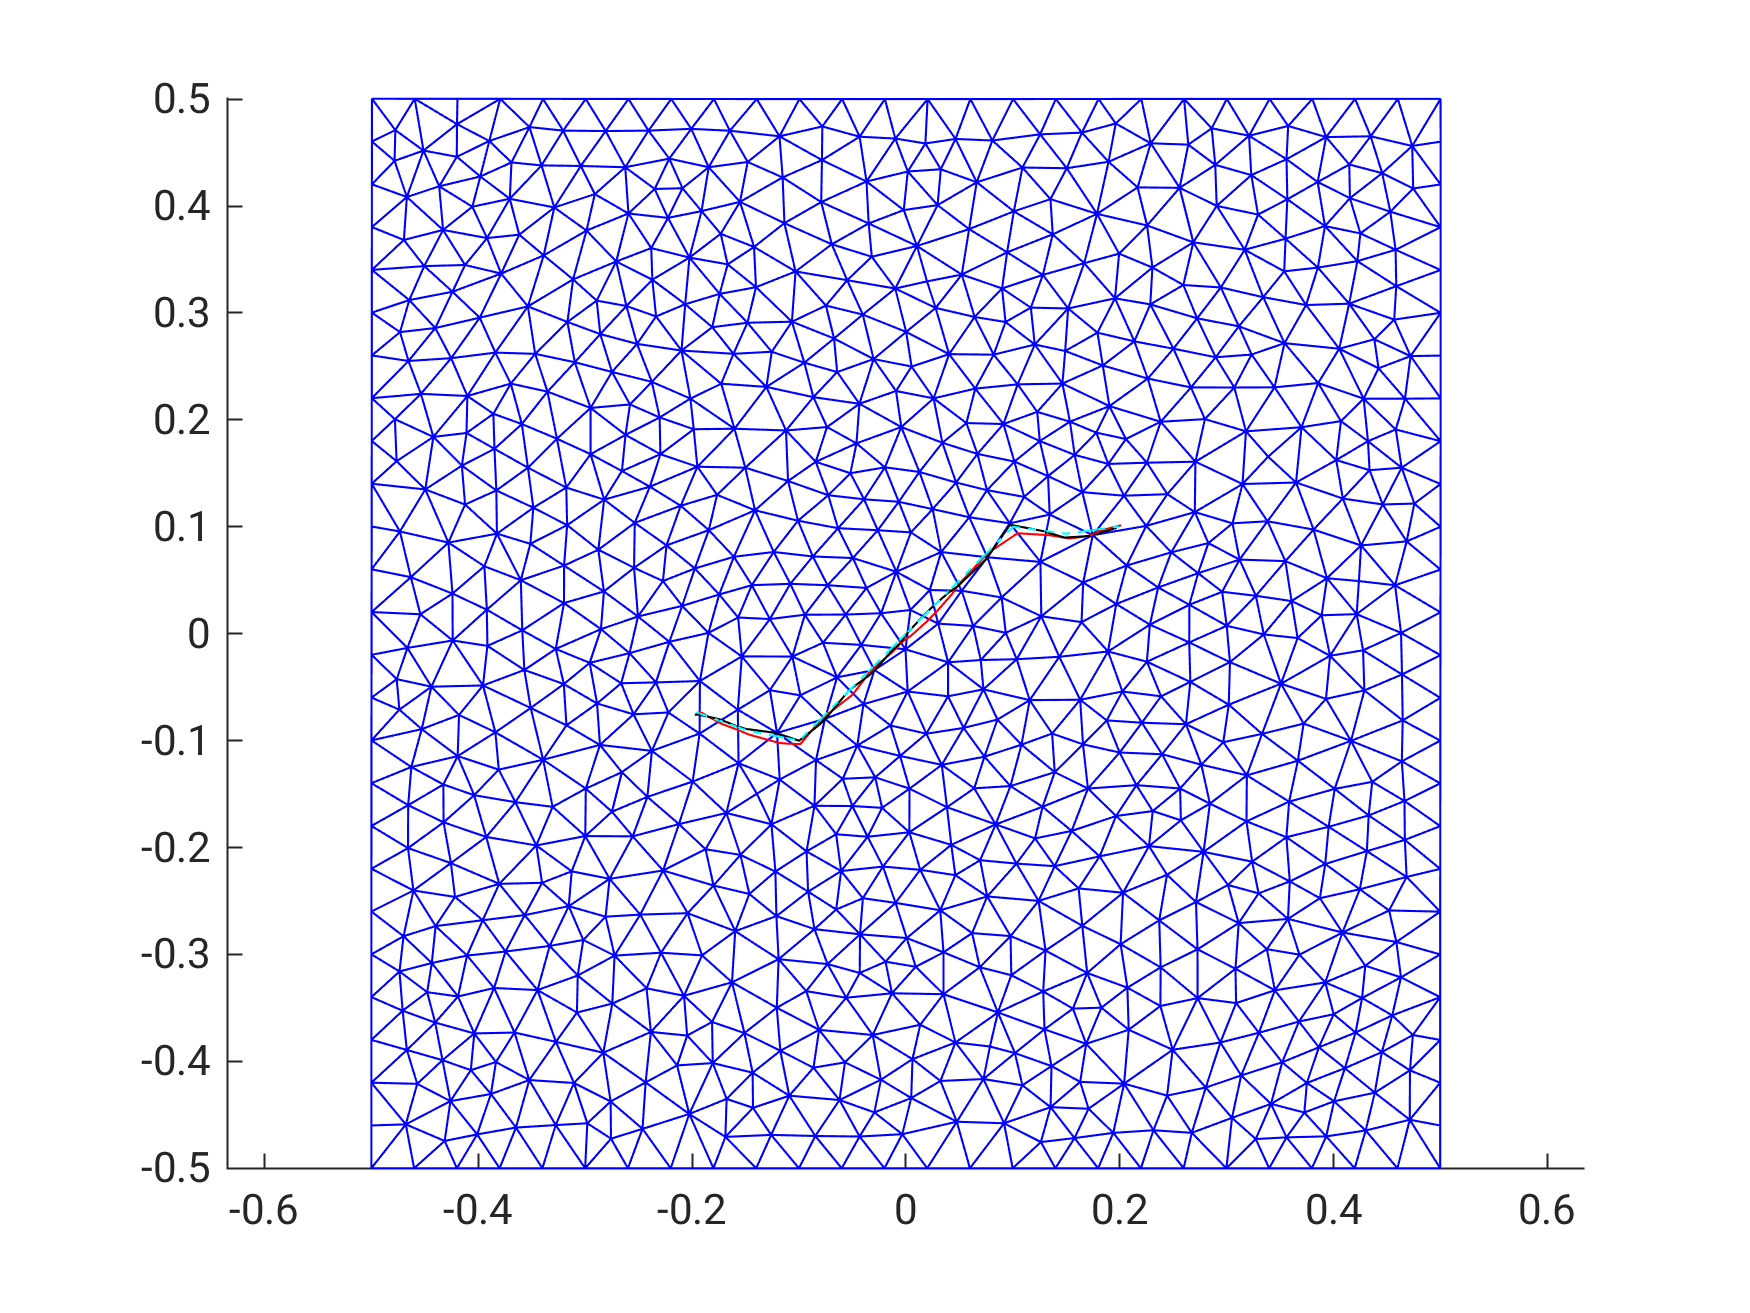
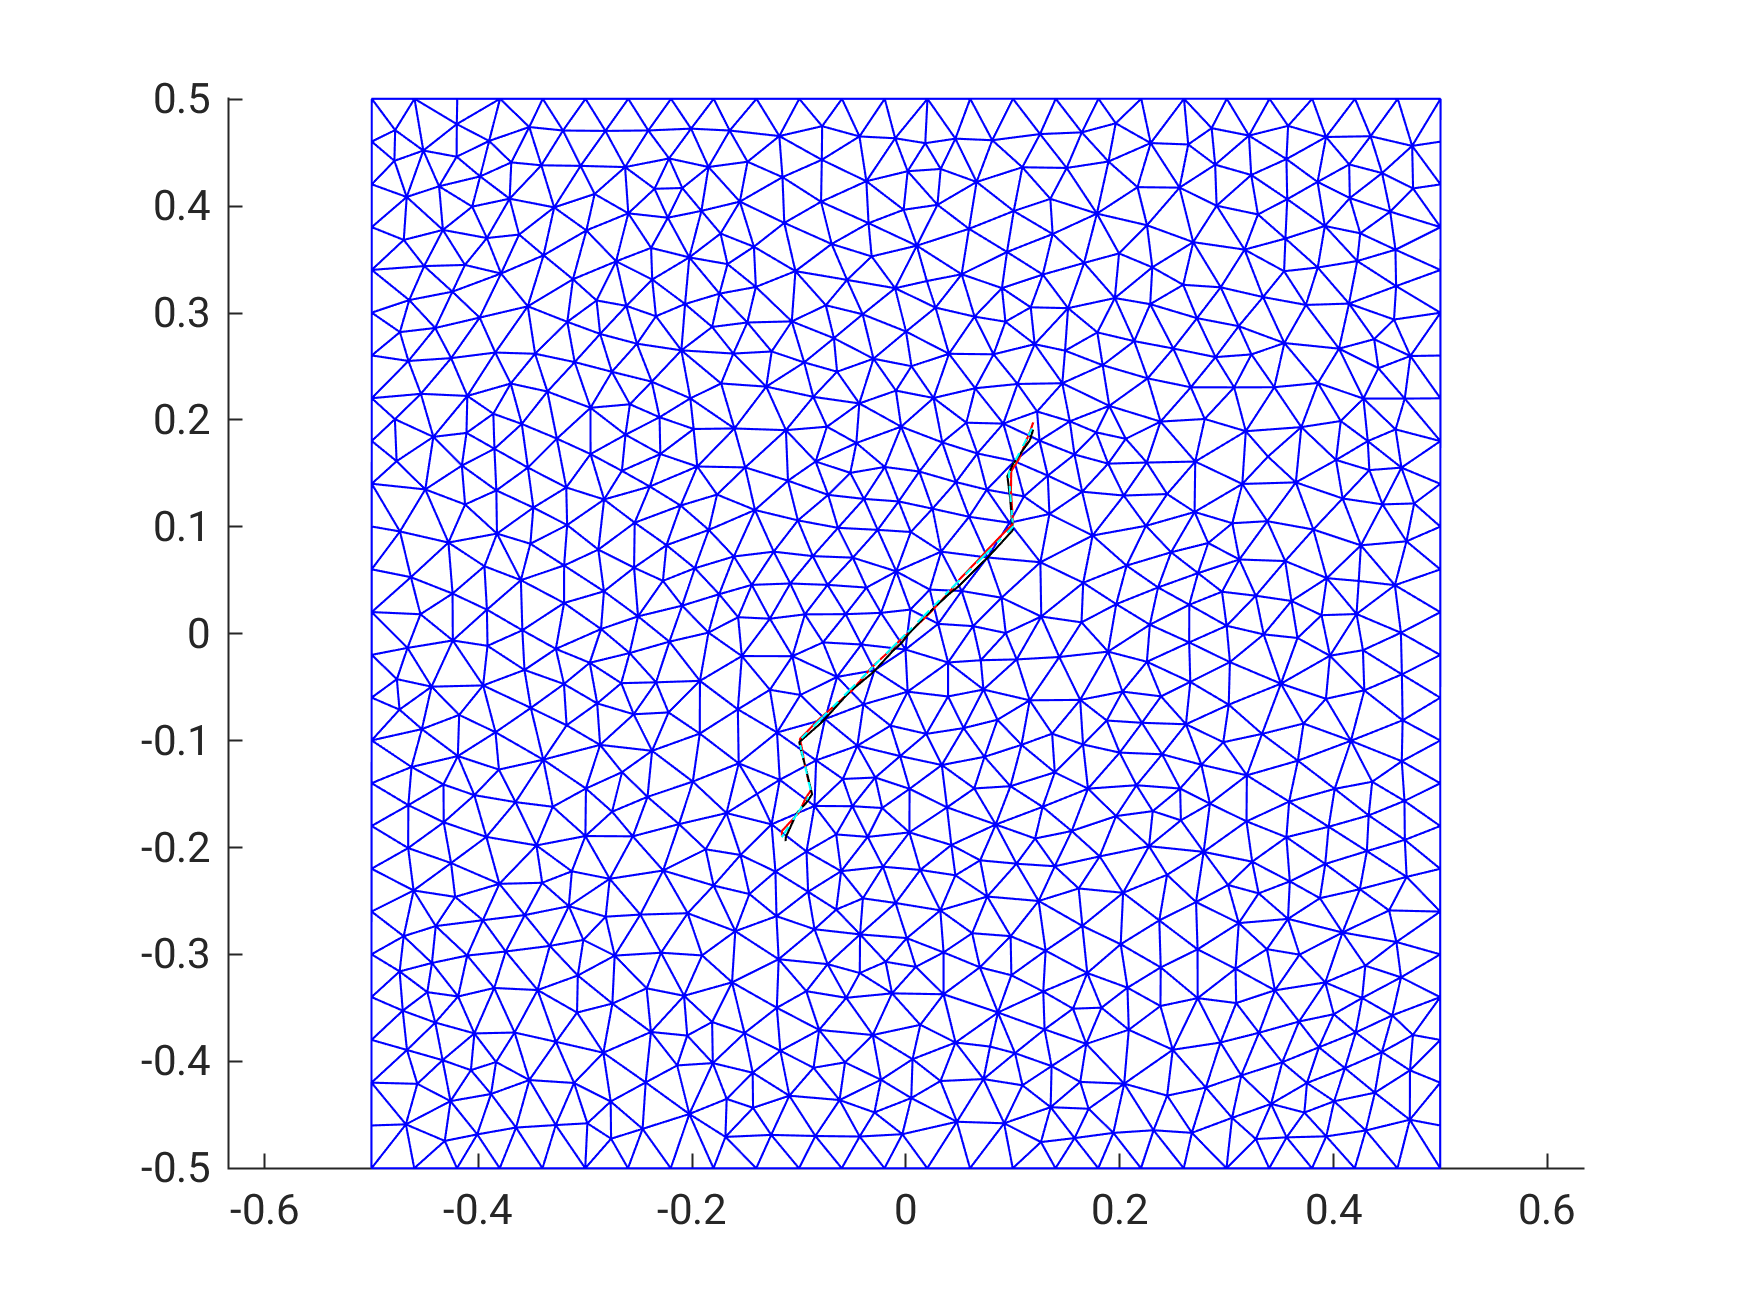
wall pressure plotting

diff --git a/Routines_ICEM/f_plot_wall_forces.m b/Routines_ICEM/f_plot_wall_forces.m
@@ -1,4 +1,4 @@
-function [ ] = f_plot_wall_forces( u,xCr,enrDomain,typeElem,elem_crk,split_elem,vertex_elem,tip_elem)
+function [ ] = f_plot_wall_forces( u,xCrk,enrDomain,typeElem,elem_force,elem_crk,split_elem,vertex_elem,tip_elem)
 % This MATLAB function was created by Martin Forbes (martin.forbes@postgrad.otago.ac.nz)
 % The date of creation: Fri Mar 18 18:39:27 NZDT 2022
 
@@ -13,17 +13,12 @@ global rift_wall_pressure
 
 %loop over elements
 %elems = union(split_elem,vertex_elem);
-if 
-  f = figure('visible','off');
-else
-  f = figure();
-end
 
 
 
 
 for kk = 1:size(xCrk,2) %what's the crack?
-  if 
+  if Hidden
     f = figure('visible','off');
   else
     f = figure();
@@ -31,22 +26,23 @@ for kk = 1:size(xCrk,2) %what's the crack?
   ns = size(xCrk(kk).coor,2);
   crack_coord = {};
   f_app = {};
-  for ii = 1:length(tip_elems)
+  for ii = 1:length(tip_elem)
     iel = tip_elem(ii);
     sctr = element(iel,:);
     segment = elem_crk(iel,:);
     for i=[1,ns-1]
       xseg = [xCrk(kk).coor(i,:),xCrk(kk).coor(i+1,:)];
       [lseg,~,~,~,~,~] = f_segment_dist(xseg);
-      [flag1,flag2,~] = crack_interact_element(xseg,e,[])
+      [flag1,flag2,~] = crack_interact_element(xseg,iel,[]);
       if flag1
-        [l,~,~,~,~,~] = f_segment_dist(seg);
+        [l,~,~,~,~,~] = f_segment_dist(segment);
+        dw = l/(2*sqrt(3));
         if i == 1
-          crack_coord{i} = [l/(2*sqrt(3), l - l/(2*sqrt(3)];
+          crack_coord{i} = [dw, l - dw];
         else
-          crack_coord{i} = [lseg - (l -l/(2*sqrt(3)), lseg - l/(2*sqrt(3)];
+          crack_coord{i} = [lseg - (l - dw), lseg - dw];
         end
-        f_app{i} = elem_forces(iel,1:2);
+        f_app{i} = elem_force(iel,1:2);
       end
     end
   for ii =1:length(vertex_elem)
@@ -56,7 +52,7 @@ for kk = 1:size(xCrk,2) %what's the crack?
     for i=1:ns-1
       xseg = [xCrk(kk).coor(i,:),xCrk(kk).coor(i+1,:)];
       [lseg,~,~,~,~,~] = f_segment_dist(xseg);
-      [flag1,flag2,~] = crack_interact_element(xseg,e,[])
+      [flag1,flag2,~] = crack_interact_element(xseg,iel,[]);
       if flag1
         l1 = [segment(1:2),xseg(3:4)];
         d1 = f_segment_dist(l1);
@@ -66,39 +62,73 @@ for kk = 1:size(xCrk,2) %what's the crack?
         dw = dt/(2*sqrt(3));
         if d1 > dw 
           crack_coord{i} = [ crack_coord{i}, lseg - (d1 - dw) ]
-          f_app{i} = [ f_app{i}, elem_forces(iel,1) ]
+          f_app{i} = [ f_app{i}, elem_force(iel,1) ]
           if d2 < dw
             crack_coord{i} = [ crack_coord{i}, lseg - d1 - (dt - dw) ]
-            f_app{i} = [ f_app{i}, elem_forces(iel,2) ]
+            f_app{i} = [ f_app{i}, elem_force(iel,2) ]
           else
             crack_coord{i+1} = [ dt - dw -d1, crack_coord{i+1} ]
-            f_app{i} = [ elem_forces(iel,2), f_app{i+1}]
+            f_app{i} = [ elem_force(iel,2), f_app{i+1}]
+          end
         else 
           crack_coord{i+1} = [ dw-d1, dt-dw-d1 , crack_coord{i+1} ] 
-          f_app{i+1} = [ elem_forces(iel,2), f_pp{i+1} ] 
+          f_app{i+1} = [ elem_force(iel,2), f_pp{i+1} ] 
         end
       end
     end
   end
-  for ii=1:length(split_elems)
-    iel = elems(ii);
+  for ii=1:length(split_elem)
+    iel = split_elem(ii);
     sctr = element(iel,:) ;
     segment = elem_crk(iel,:);
-    x0 = elem_crk(iel,1) ; y0 = elem_crk(iel,2) ;
-    x1 = elem_crk(iel,3) ; y1 = elem_crk(iel,4) ;
-    l = sqrt((x1-x0)*(x1-x0) + (y1-y0)*(y1-y0)) ;
-    nv = [(y0-y1),(x1-x0)]./l;
+    [l,~,~,~,~,~] = f_segment_dist(segment);
+    dw = l/(2*sqrt(3));
     % if there is ocean force
-    f_app = elem_force(iel,1:2) ;
-
-    % need to sort the segments into one coordinate (along crack)
-    seg_value = 0
-    coord = 0
-    seg_cumul = 0
-    for i=1:(size(xCrk(kk).coor,2)-1)
+    fp = elem_force(iel,1:2) ;
+    for i=1:ns-1
       xseg = [xCrk(kk).coor(i,:),xCrk(kk).coor(i+1,:)];
-    for 
-      [flag1,flag2,~] = crack_interact_element(xseg,e,[])
+      [flag1,flag2,~] = crack_interact_element(xseg,iel,[]);
+      if flag1
+        nseg = [xseg(1:2),segment(1:2)];
+        [nl,~,~,~,~,~] = f_segment_dist(nseg);
+        ccoords = [ nl + dw, nl + l - dw] 
+        fp = elem_force(iel,:);
+        seg_coord = crack_coord{i};
+        seg_f = f_app{i};
+        ind = find(seg_coord>ccoords(1),1);
+        if isempty(ind)
+          seg_coord = [seg_coord, ccoords];
+          seg_f = [seg_f,fp];
+        elseif ind == 1
+          seg_coord = [ccoords, seg_coord];
+          seg_f = [fp, seg_f];
+        else
+          seg_coord = [seg_coord(1:ind)];
+          seg_f = [seg_f(1:ind-1),fp,seg_f(ind:end)];
+        end
+        crack_coord{i} = seg_coord;
+        f_app{i} = seg_f;
+      end
+    end
+  end
+  pl = 0;
+  cc = []; 
+  ff = [];
+  for i = 1:ns-1
+    xseg = [xCrk(kk).coor(i,:),xCrk(kk).coor(i+1,:)];
+    [lseg,~,~,~,~,~] = f_segment_dist(xseg);
+    cc = [ cc, crack_coord{i} + pl ];
+    ff = [ff, f_app{i}]; 
+    pl = pl + lseg;
+  end
+  keyboard
+  plot(pl,ff)
+  keyboard
+end
+
+
+
+
       
 
 

diff --git a/mainXFEM.m b/mainXFEM.m
@@ -19,16 +19,15 @@ if ~isfield(xCr,'tip')
   fprintf(output_file,'No tip field for xCr defined, all tips have been activated\n')
   disp('No tip field for xCr defined, all tips have been activated') ;
 end
-if ~isempty('penalty')
+if isempty('penalty')
   penalty = 0 ;
 end
-if ~isempty('contact')
+if isempty('contact')
   contact = 0;
 end
-if ~isempty('melangeforce')
+if isempty('melangeforce')
   melangeforce = 0;
 end
-
 
 Knum = [ ] ; Theta = [ ] ;
 enrDomain = [ ] ; tipElem = [ ] ; splitElem = [ ] ; vertexElem = [ ] ; cornerElem = [];
@@ -286,10 +285,11 @@ for ipas = 1:npas
       contact = 0
       disp([num2str(toc),'    No contact therefore penalty method was not applied'])
     end
+
+
     if contact || melangeforce
       penalty = 1
     end
-
 
 
     if penalty 
@@ -349,10 +349,10 @@ for ipas = 1:npas
       end
     end
 
-    plot_wall = 0;
+    plot_wall = 1;
 
     if plot_wall
-      f_plot_wall_forces(u,xCr,enrDomain,typeElem,elemCrk,splitElem)
+      f_plot_wall_forces(u,xCr,enrDomain,typeElem,elemForce,elemCrk,splitElem,vertexElem,tipElem)
     end
 %     
 %     % plot displacement contour

diff --git a/Testcases/Tri_friction/testcase_friction.m b/Testcases/Tri_friction/testcase_friction.m
@@ -9,6 +9,7 @@ path(path,'../../')
 path(path,'../../Crackprocessing')
 path(path,'../../Mesh')
 path(path,'../../Routines_XFEM')
+path(path,'../../Routines_ICEM')
 
 %define (and make) a path for results
 results_path = './Tri_pressure_ocean4';
